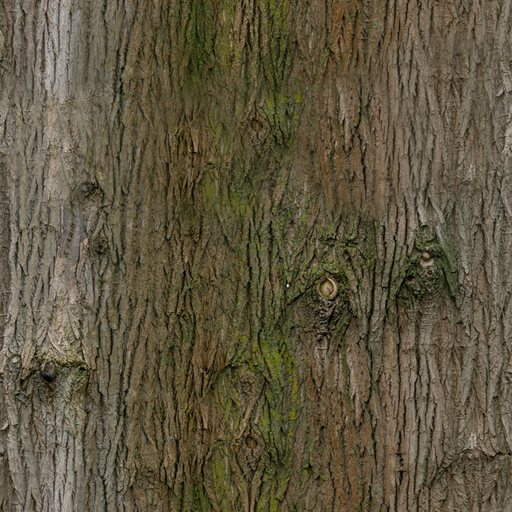
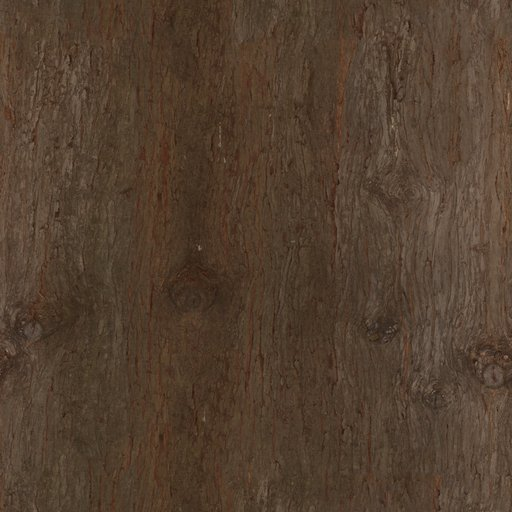
Trunks, far forest and natural ground colours
- Clones of swapped textures get the photo (trunk bark, road layers, forms never did).
- Conifer bark photo with its normal map; trunks flare into lobed roots, lean and bulge.
- Far forest trees get a six-sided needle cone round the crossed cards and a per-tree shade.
- Grass and gravel photos colour-corrected to natural albedo (washed out from above).
- README round 15, CLAUDE.md notes, file versions.

Claude-Session: https://claude.ai/code/session_01UUt3ogmQRDamErLtmTLKSF

diff --git a/models.js b/models.js
@@ -3,7 +3,7 @@
 import * as THREE from 'three';
 import { RoundedBoxGeometry } from 'three/addons/geometries/RoundedBoxGeometry.js';
 import { mergeGeometries, mergeVertices } from 'three/addons/utils/BufferGeometryUtils.js';
-import { labelTexture } from './textures.js?v=14';
+import { labelTexture } from './textures.js?v=15';
 
 const V = (x, y, z) => new THREE.Vector3(x, y, z);
 const Y = V(0, 1, 0), Z = V(0, 0, 1);
@@ -830,6 +830,20 @@ function cardBuilder() {
 const nrm = (x, y, z) => { const l = Math.hypot(x, y, z) || 1; return [x / l, y / l, z / l]; };
 function seeded(seed) { let s = (seed * 9301 + 49297) % 2147483647 || 1; return () => { s = (s * 16807) % 2147483647; return s / 2147483647; }; }
 // Atlas: branch A u 0-.5 v .5-1, branch B u 0-.5 v 0-.5, whole spruce u .5-.75, leaf clumps u .75-1 (v .5-1 and 0-.5)
+// A trunk: tapering, flared into roots at the foot, with a slight lean and a few bulges, so no two are the same
+// (from the tree's own seeded numbers). Open at the bottom (it stands in the ground).
+function trunkGeo(R, h, rTop, rBot, flare) {
+  const g = new THREE.CylinderGeometry(rTop, rBot, h, 10, 8, true).translate(0, h / 2, 0), p = g.attributes.position;
+  const lx = (R() - .5) * .04 * h, lz = (R() - .5) * .04 * h, ph = R() * 6.28, roots = 4 + (R() * 3 | 0), rp = R() * 6.28;
+  for (let i = 0; i < p.count; i++) {
+    const x = p.getX(i), y = p.getY(i), z = p.getZ(i), t = y / h, a = Math.atan2(z, x);
+    let k = 1 + flare * Math.exp(-y / (.035 * h + .25)) * (.6 + .4 * Math.max(0, Math.cos(roots * a + rp)));   // root flare, lobed
+    k *= 1 + .06 * Math.sin(y * 1.7 + ph) * Math.sin(a * 3 + ph);                                                // bulges
+    p.setXYZ(i, x * k + lx * t * t, y, z * k + lz * t * t);
+  }
+  g.computeVertexNormals();
+  return g;
+}
 export function spruceGeo(seed, h = 13) {
   const R = seeded(seed), B = cardBuilder();
   const cw = h * .48;
@@ -852,7 +866,7 @@ export function spruceGeo(seed, h = 13) {
         [nrm(dx - sx * .3, .8, dz - sz * .3), nrm(dx - sx * .4, .6, dz - sz * .4), nrm(dx + sx * .4, .6, dz + sz * .4), nrm(dx + sx * .3, .8, dz + sz * .3)], [cb, ce, ce, cb]);
     }
   }
-  const trunk = new THREE.CylinderGeometry(.08 * h / 10, .3 * h / 10, h * .96, 8, 1).translate(0, h * .48, 0);
+  const trunk = trunkGeo(R, h * .96, .08 * h / 10, .3 * h / 10, 1.6);
   return { fol: B.geo(), trunk };
 }
 export function leafyGeo(seed, h = 11) {
@@ -870,19 +884,28 @@ export function leafyGeo(seed, h = 11) {
     const ps = [P(-1, -1), P(1, -1), P(1, 1), P(-1, 1)];
     B.quad(ps, [[.75, lo], [1, lo], [1, lo + .5], [.75, lo + .5]], ps.map(nn), [shade * .85, shade * .85, shade * 1.1, shade * 1.1]);
   }
-  const parts = [new THREE.CylinderGeometry(.14, .3, h * .62, 8, 1).translate(0, h * .31, 0)];
+  const parts = [trunkGeo(R, h * .62, .14, .3, 1.3)];
   for (let i = 0; i < 4; i++) {
     const a = i / 4 * 6.283 + R(), len = h * .3, br = new THREE.CylinderGeometry(.05, .11, len, 6, 1).translate(0, len / 2, 0);
     br.rotateZ(.75); br.rotateY(a); br.translate(0, h * .5, 0); parts.push(br);
   }
   return { fol: B.geo(), trunk: mergeGeometries(parts.map(p => p.toNonIndexed())) };
 }
-// distant trees: two crossed pictures of a whole spruce
+// distant trees: two crossed pictures of a whole spruce, inside a six-sided cone of the same picture so the crown
+// looks solid from above too (the boss view looks down on the far forest)
 export function farCardGeo() {
   const B = cardBuilder(), h = 14, w = 7;
   for (let k = 0; k < 2; k++) {
     const a = k * Math.PI / 2, dx = Math.cos(a) * w / 2, dz = Math.sin(a) * w / 2;
     B.quad([[-dx, 0, -dz], [dx, 0, dz], [dx, h, dz], [-dx, h, -dz]], [[.5, 0], [.75, 0], [.75, 1], [.5, 1]], [[0, 1, 0], [0, 1, 0], [0, 1, 0], [0, 1, 0]], [.75, .75, 1, 1]);
+  }
+  const n = 6, rb = w * .46, y0 = h * .12;
+  for (let k = 0; k < n; k++) {
+    const a0 = (k + .25) / n * 6.283, a1 = (k + 1.25) / n * 6.283, am = (a0 + a1) / 2;
+    const p0 = [Math.cos(a0) * rb, y0, Math.sin(a0) * rb], p1 = [Math.cos(a1) * rb, y0, Math.sin(a1) * rb], top = [0, h, 0];
+    const nn = nrm(Math.cos(am), .55, Math.sin(am));
+    // a triangle drawn as a quad with two corners at the top
+    B.quad([p0, p1, top, top], [[.5, 0], [.75, 0], [.625, 1], [.625, 1]], [nn, nn, [0, 1, 0], [0, 1, 0]], [.7, .7, 1, 1]);
   }
   return B.geo();
 }

diff --git a/game.js b/game.js
@@ -3,12 +3,12 @@
 // browser so nothing ever resets.
 import * as THREE from 'three';
 import { RGBELoader } from 'three/addons/loaders/RGBELoader.js';
-import { makeTextures } from './textures.js?v=14';
-import * as MOD from './models.js?v=14';
-import { Sound } from './audio.js?v=14';
-import { makeCrew } from './crew.js?v=14';
-import { makeWorks } from './construct.js?v=14';
-import { makePeople } from './people.js?v=14';
+import { makeTextures } from './textures.js?v=15';
+import * as MOD from './models.js?v=15';
+import { Sound } from './audio.js?v=15';
+import { makeCrew } from './crew.js?v=15';
+import { makeWorks } from './construct.js?v=15';
+import { makePeople } from './people.js?v=15';
 
 const N = 256, NN = N * N;           // 256 x 256 cells, 1 m each
 const SAVE_KEY = 'groundwork.save.v3';   // v1 (the first, smaller valley) is left untouched in the browser
@@ -720,10 +720,9 @@ function terrainMaterial() {
         vec3 gh = texture2D(tHgt, gp1).rgb;
         vec3 gw = max(vMat.xyz, 0.) + 1e-4; gw = gw * (.35 + gh * 1.3); gw = gw * gw * gw; gw /= (gw.x + gw.y + gw.z);
         vec3 cG = mix(texture2D(tGrass, gp1).rgb, texture2D(tGrass, gp2).rgb, .4);
-        cG *= vec3(.92, 1.06, .78);   // the photo is a late-summer lawn: a touch greener for a valley meadow
         // meadow patches: sun-dried yellow in places, deeper green in others
         { float gdry = texture2D(tMacro, vTWP.zx * .027 + .31).r, glush = texture2D(tMacro, vTWP.xz * .019 + .73).r;
-          cG = mix(cG, cG * vec3(1.42, 1.2, .72), smoothstep(.5, .78, gdry) * .75);
+          cG = mix(cG, cG * vec3(1.18, 1.08, .82), smoothstep(.5, .78, gdry) * .6);
           cG = mix(cG, cG * vec3(.72, .9, .7), smoothstep(.52, .8, glush) * .7); }
         vec3 cD = mix(texture2D(tDirt, gp1).rgb, texture2D(tDirt, gp2).rgb, .35);
         // fine grit and small stones up close
@@ -1124,7 +1123,8 @@ function leafy(sh, trunk) {
 }
 const folMat = new THREE.MeshStandardMaterial({ vertexColors: true, map: T.foliage, alphaTest: .42, side: THREE.DoubleSide, roughness: .88, alphaToCoverage: true });
 const barkTex = T.bark.clone(); barkTex.repeat.set(2, 5); barkTex.needsUpdate = true;
-const barkMat = new THREE.MeshStandardMaterial({ map: barkTex, roughness: .95, color: 0xd2c2ac });
+const barkNTex = T.barkN.clone(); barkNTex.repeat.set(2, 5); barkNTex.needsUpdate = true;
+const barkMat = new THREE.MeshStandardMaterial({ map: barkTex, normalMap: barkNTex, normalScale: new THREE.Vector2(1.4, 1.4), roughness: .95, color: 0xd8ccbc });
 folMat.onBeforeCompile = sh => leafy(sh, false); folMat.customProgramCacheKey = () => 'gw-fol';
 barkMat.onBeforeCompile = sh => leafy(sh, true); barkMat.customProgramCacheKey = () => 'gw-bark';
 const TREE_GEOS = [MOD.spruceGeo(1, 12), MOD.spruceGeo(2, 14.5), MOD.spruceGeo(3, 16.5), MOD.leafyGeo(1, 10), MOD.leafyGeo(2, 12)];
@@ -1388,7 +1388,13 @@ function buildFarForest() {
   const put = (geo, mat, list, shadow) => {
     if (!list.length) return;
     const im = new THREE.InstancedMesh(geo, mat, list.length);
-    list.forEach(([x, y, z, s, ry], i) => { _q.setFromAxisAngle(_ax.set(0, 1, 0), ry); _m4.compose(_v.set(x, y, z), _q, _s.set(s, s, s)); im.setMatrixAt(i, _m4); });
+    list.forEach(([x, y, z, s, ry], i) => {
+      _q.setFromAxisAngle(_ax.set(0, 1, 0), ry); _m4.compose(_v.set(x, y, z), _q, _s.set(s, s, s)); im.setMatrixAt(i, _m4);
+      // no two trees quite the same green (from the tree's own position: no new random draws)
+      const h = Math.sin(x * 12.9898 + z * 78.233) * 43758.5453, f = h - Math.floor(h), g2 = Math.sin(x * 3.1 + z * 1.7) * .5 + .5;
+      im.setColorAt(i, _gc.setRGB(.82 + f * .3 + g2 * .06, .86 + f * .26, .8 + f * .22 - g2 * .08));
+    });
+    if (im.instanceColor) im.instanceColor.needsUpdate = true;
     im.castShadow = shadow; im.receiveShadow = true; scene.add(im); farForest.push(im);
   };
   near.forEach((l, v) => { put(TREE_GEOS[v].fol, folMat, l, false); put(TREE_GEOS[v].trunk, barkMat, l, false); });

diff --git a/textures.js b/textures.js
@@ -285,7 +285,7 @@ export function makeTextures(quality) {
     macro: grey(256, 4, 91, 5),
     rock: canvasTex(rock(256)[0]), bark: canvasTex(bark(128)[0]), needles: canvasTex(needles(256)[0]),
     water: normalTex(256, 8, 101, 9),
-    wear: canvasTex(grey1(), false),
+    wear: canvasTex(grey1(), false), barkN: canvasTex(flatN(), false),
     clouds: clouds(512), puff: puff(64), stripes: stripes(), tread: tread(), foliage: foliage(quality === 'low' ? 256 : 512),
   };
   photos(T, S);
@@ -294,12 +294,20 @@ export function makeTextures(quality) {
 // Photographed ground, bark and rock (free CC0 textures from Poly Haven, kept in assets/). The drawn textures above are
 // used until the photos arrive, and stay if a photo can't be loaded.
 // a flat mid-grey stand-in (the wear map's 'no change' colour) until the photo loads
+function flatN() { const [c, g] = canvas(4); g.fillStyle = 'rgb(128,128,255)'; g.fillRect(0, 0, 4, 4); return c; }
 function grey1() { const [c, g] = canvas(4); g.fillStyle = 'rgb(112,58,128)'; g.fillRect(0, 0, 4, 4); return c; }
 function photos(T, S) {
-  const swap = (tex, url) => { const img = new Image(); img.onload = () => { tex.image = img; tex.needsUpdate = true; }; img.src = url; };
+  // copies made with clone() (trunks with their own tiling, road layers...) get the photo too, whenever they were made
+  const swap = (tex, url) => {
+    const copies = [], cl = tex.clone.bind(tex);
+    tex.clone = () => { const c = cl(); if (tex.photo) { c.image = tex.photo; c.needsUpdate = true; } copies.push(c); return c; };
+    const img = new Image();
+    img.onload = () => { tex.photo = img; for (const t of [tex, ...copies]) { t.image = img; t.needsUpdate = true; } };
+    img.src = url;
+  };
   swap(T.grass, 'assets/grass.jpg'); swap(T.dirt, 'assets/dirt.jpg'); swap(T.gravel, 'assets/gravel.jpg');
   swap(T.wear, 'assets/wear.jpg');   // worn painted metal for the machines (Poly Haven green_metal_rust, CC0)
-  swap(T.bark, 'assets/bark.jpg'); swap(T.rock, 'assets/rock.jpg');
+  swap(T.bark, 'assets/bark.jpg'); swap(T.barkN, 'assets/bark_n.jpg');   // conifer bark and its bumps (Poly Haven chinese_cedar_bark) swap(T.rock, 'assets/rock.jpg');
   // tree branches, the whole-spruce cards and leaf clumps, built from photographed fir twigs and leaves (same layout)
   swap(T.foliage, 'assets/foliage.png');
   // the bumps: grass, soil and gravel height maps packed in red, green and blue

diff --git a/people.js b/people.js
@@ -13,7 +13,7 @@
 // Every piece of every building is plain data (a list built from the building's size), so a site saves as a few numbers
 // and a string of which pieces are in.
 import * as THREE from 'three';
-import { buildPerson, toolMesh } from './models.js?v=14';
+import { buildPerson, toolMesh } from './models.js?v=15';
 
 export function makePeople(G) {
   const { clamp, angWrap } = G;

diff --git a/index.html b/index.html
@@ -271,6 +271,6 @@
 
 <div id="loading">GROUNDWORK</div>
 
-<script type="module" src="game.js?v=14"></script>
+<script type="module" src="game.js?v=15"></script>
 </body>
 </html>

diff --git a/CLAUDE.md b/CLAUDE.md
@@ -17,7 +17,7 @@ A browser digging game, hosted on GitHub Pages from `main` (root): https://might
 - `crew.js`: the crew (Menu → Crew, `groundwork.crew`). `makeCrew(G)` gets what it needs from game.js; each worker returns the same control object the player makes (`m.ai`), and `update()` in game.js drives every machine with `m.ctl` (player input, `m.ai` or `ZERO`). With no job the crew follows the player (`convoy`, slots behind the player; `travel` uses A* `findPath` on a 2 m grid that avoids water deeper than each machine's ford and steep grades). Stopping at deep water makes a site with `siteAt` (aimed at the water's centroid, narrowest clear line). Sites are lines across the water (`s` along, `o` across); dozer/excavator/hauler roles with a lock so only one uses the line. `follow` = drive along the site line; `convoy` = follow the player (keep the names distinct). The player's machine has no AI; toasts from machines go through `say(m, msg)` (player's machine only).
 - Dirt: `H0` is the ground before digging (rebuilt from the seed on load); `SWELL` bulks never-dug soil; `dropCircle` tips a cone; the terrain shader gets `aDig` (H0, spoil depth) for soil layers. Erosion in `waterStep` only touches cells where `|H - H0| > .05` and not gravel.
 - Trees: fallen trees stay (`st` 2, saved in `logs`), `pushLogs` shoves them; `treeFade` dithers trees in the line of sight (`aFade`, own materials, not the far forest's).
-- `textures.js`: procedural textures (`makeTextures(quality)`), swapped for photos from `assets/` when they load (grass, dirt, gravel, bark, rock, `ground_h.png` = the three height maps in R/G/B; all CC0 from Poly Haven). `assets/sky.hdr` (Poly Haven, CC0) lights and reflects in the machines (`scene.environment`). `assets/foliage.png` (tree branches, spruce cards, leaf clumps; same layout as the old drawn atlas) is built by `tools/foliage.py` from Poly Haven's fir_tree_01 twig and tree_small_02 leaf photos. `assets/wear.jpg` (R = paint tone, G = shine, from Poly Haven green_metal_rust) is projected from three sides onto every machine in `addGrime` (`tWear`). Keep assets phone-sized (1k or less).; `audio.js`: `Sound` (per-machine voices via `machine(id,cfg)`/`updateMachine`, one-shots, ambient). Sound values are guarded against NaN; keep that.
+- `textures.js`: procedural textures (`makeTextures(quality)`), swapped for photos from `assets/` when they load (grass, dirt, gravel, bark, rock, `ground_h.png` = the three height maps in R/G/B; all CC0 from Poly Haven). `assets/sky.hdr` (Poly Haven, CC0) lights and reflects in the machines (`scene.environment`). `assets/foliage.png` (tree branches, spruce cards, leaf clumps; same layout as the old drawn atlas) is built by `tools/foliage.py` from Poly Haven's fir_tree_01 twig and tree_small_02 leaf photos. `assets/bark.jpg` + `bark_n.jpg` (Poly Haven chinese_cedar_bark, colour and bumps). Grass and gravel photos are colour-corrected to natural albedo (the originals are much brighter). Copies made with `clone()` of a swapped texture get the photo too (`photos()` in textures.js). `assets/wear.jpg` (R = paint tone, G = shine, from Poly Haven green_metal_rust) is projected from three sides onto every machine in `addGrime` (`tWear`). Keep assets phone-sized (1k or less).; `audio.js`: `Sound` (per-machine voices via `machine(id,cfg)`/`updateMachine`, one-shots, ambient). Sound values are guarded against NaN; keep that.
 - Graphics quality `groundwork.quality` (high/medium/low, `QS` in game.js). Tree count is capped by truncating the generation list (keeps old saves' `gone` indices valid); never add random draws to world generation, it would move trees/rocks in existing saves.
 - `tests/play.cjs`: Playwright gameplay checks (`node tests/play.cjs [outdir]`). Run them after any gameplay change. If jsDelivr is unreachable, `npm install three@0.160.0` somewhere and set `THREE_DIR` to its `node_modules/three`.
 

diff --git a/README.md b/README.md
@@ -315,3 +315,13 @@ The owner chose "boss mode": you run the crew and give orders, and jump into a m
 - **Worn paint instead:** every machine's paint and steel now carries detail from a photographed painted-metal sheet (Poly Haven, CC0): fine scratches, small chips and streaks in the colour, and shine that varies across each panel. It's projected from three sides so the scratches are the same size on every part, and it works with the existing mud, grime and damage.
 
 **Tested:** all 29 automatic checks pass. Close-up phone screenshots of the excavator and loader checked.
+
+### Round 15: trunks, the far forest, and natural colours (owner: do the trunks and far forest next)
+
+- **Bug found:** the trunks never showed the photographed bark from round 12. They used a copy of the bark texture made before the photo arrived, and only the original got the photo. Road layers and concrete forms had the same problem. Copies now get the photo too.
+- **Bark:** a photographed conifer bark (Poly Haven, CC0) with its bump map, so the grooves and ridges catch the light.
+- **Trunks:** no longer perfectly straight cones. Each one flares out into roots at the foot (in lobes, like real roots), leans slightly and has a few bulges, all different from tree to tree.
+- **Far forest:** the trees beyond the work area were two flat pictures crossed in an X, which looked like thin crosses from the boss view above. Each now also has a six-sided cone of needle pictures round it, so the crown looks solid from any angle, and every tree is a slightly different green.
+- **Colours from above:** the grass photo is a pale late-summer lawn, several times brighter than the old drawn grass, so from the boss view the meadows looked washed-out yellow. The gravel pit looked like snow. Both photos are now colour-corrected to a natural meadow green and a brownish crushed-gravel grey.
+
+**Tested:** all 29 automatic checks pass. Screenshots from above checked for the meadow, the yard and the gravel pit.
